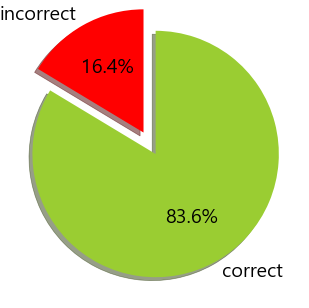
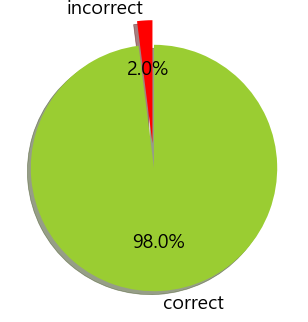
[ADD] 영상 정확도를 기반으로 make_graph 이미지 변경후 출력하기

diff --git a/GUI_ver.py b/GUI_ver.py
@@ -18,6 +18,7 @@ from utils.add_Pictogram import add_Pictogram
 from utils.defineLabel import defineLabel
 from utils.WriteCSV import WriteCSV
 from utils.Pushup_Counting import Pushup_Counting
+from GUI.make_graph import make_graph
 
 # GUI_1 -> AI
 
@@ -109,6 +110,9 @@ class GUI_2(QWidget):
         # 레이아웃
         self.myLayout = QGridLayout()
         self.setLayout(self.myLayout)
+
+        # graph 생성
+        make_graph(AI_intance.incorrect_cnt, AI_intance.full_frmes)
 
         # 이미지 라벨
         label1 = QLabel(self)
@@ -340,13 +344,11 @@ if __name__ == '__main__':
     sys.exit(app.exec_())
 
 
-
-
-
     '''
     추후 할 것
     1. 결과 창 꾸미기
     2. 각 창 안 닫아지는 현상 해결하기
-    3. 목표 횟수 도달 후 세트 변경시 어떻게 할지 생각하기
-    4. 실시간으로 수행 할 때도 video_name이 있어아햐는 문제 해결하기 (detector =pm.poseDetector(video_name) <-- 이게 문제인듯?)
+    3. 결과창 애니메이션? 안되는 현상
+    4. 목표 횟수 도달 후 세트 변경시 어떻게 할지 생각하기
+    5. 실시간으로 수행 할 때도 video_name이 있어아햐는 문제 해결하기 (detector =pm.poseDetector(video_name) <-- 이게 문제인듯?)
     '''

diff --git a/GUI/make_graph.py b/GUI/make_graph.py
@@ -1,21 +1,24 @@
+from math import ceil
 import matplotlib.pyplot as plt
 import numpy as np
 from matplotlib import font_manager, rc
 from matplotlib import style
 
-def make_graph():
+def make_graph(wrong_frames, full_frames):
+
+    wrong_per = round((wrong_frames/full_frames)*100, 2)
+    correct_per = 100 - wrong_per
+
     font_name = font_manager.FontProperties(fname="c:/Windows/Fonts/malgun.ttf").get_name()
     rc('font', family=font_name)
     style.use('ggplot')
 
     colors = ['red','yellowgreen']
     labels = ['incorrect', 'correct']
-    ratio = [18, 92]
+    ratio = [wrong_per, correct_per]
     explode = (0.2, 0.0)
 
     plt.figure(figsize=(4,4))
     plt.pie(ratio, explode=explode, labels=labels, colors=colors, autopct='%1.1f%%', shadow=True, startangle=90, textprops={'fontsize': 14})
     plt.savefig('./GUI/graph.png', transparent=True, bbox_inches='tight', pad_inches=0)
-    plt.show()
-
-make_graph()
+    #plt.show()

diff --git a/GUI/GUI_2.py b/GUI/GUI_2.py
@@ -7,8 +7,9 @@ import numpy as np
 import cv2
 from time import sleep
 
+from make_graph import make_graph
+
 class GUI_2(QWidget):
-    
     def __init__(self):
         super().__init__()
         self.setUI()
@@ -25,16 +26,16 @@ class GUI_2(QWidget):
         self.myLayout = QGridLayout()
         self.setLayout(self.myLayout)
 
+        # graph 생성
+        #make_graph(AI_intance.incorrect_cnt, AI_intance.full_frmes)
+        make_graph(12,100)
+
         # 이미지 라벨
         label1 = QLabel(self)
         pixmap = QPixmap('./GUI/graph.png')
         pixmap =pixmap.scaled(int(pixmap.width()),int(pixmap.height()))
         label1.setPixmap(pixmap)
         self.myLayout.addWidget(label1, 0,0, 2,2)
-
-        # 설명 라벨
-        label2 = QLabel('결과 이미지 및 등등', self)
-        self.myLayout.addWidget(label2, 0,2)
 
         # 이미지 라벨
         label3 = QLabel(self)
